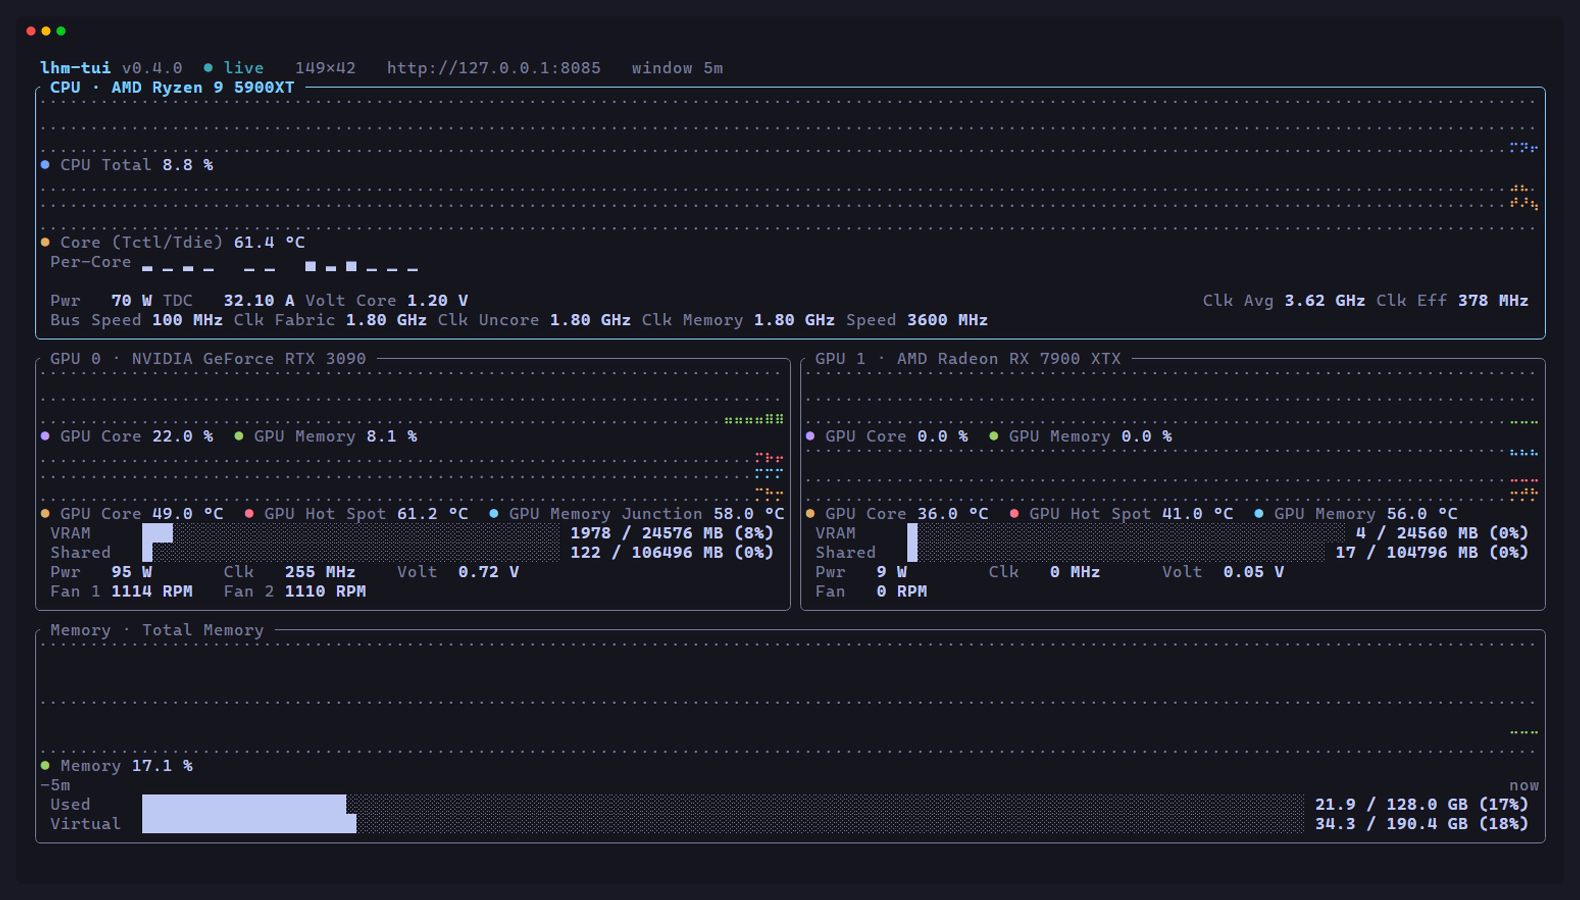
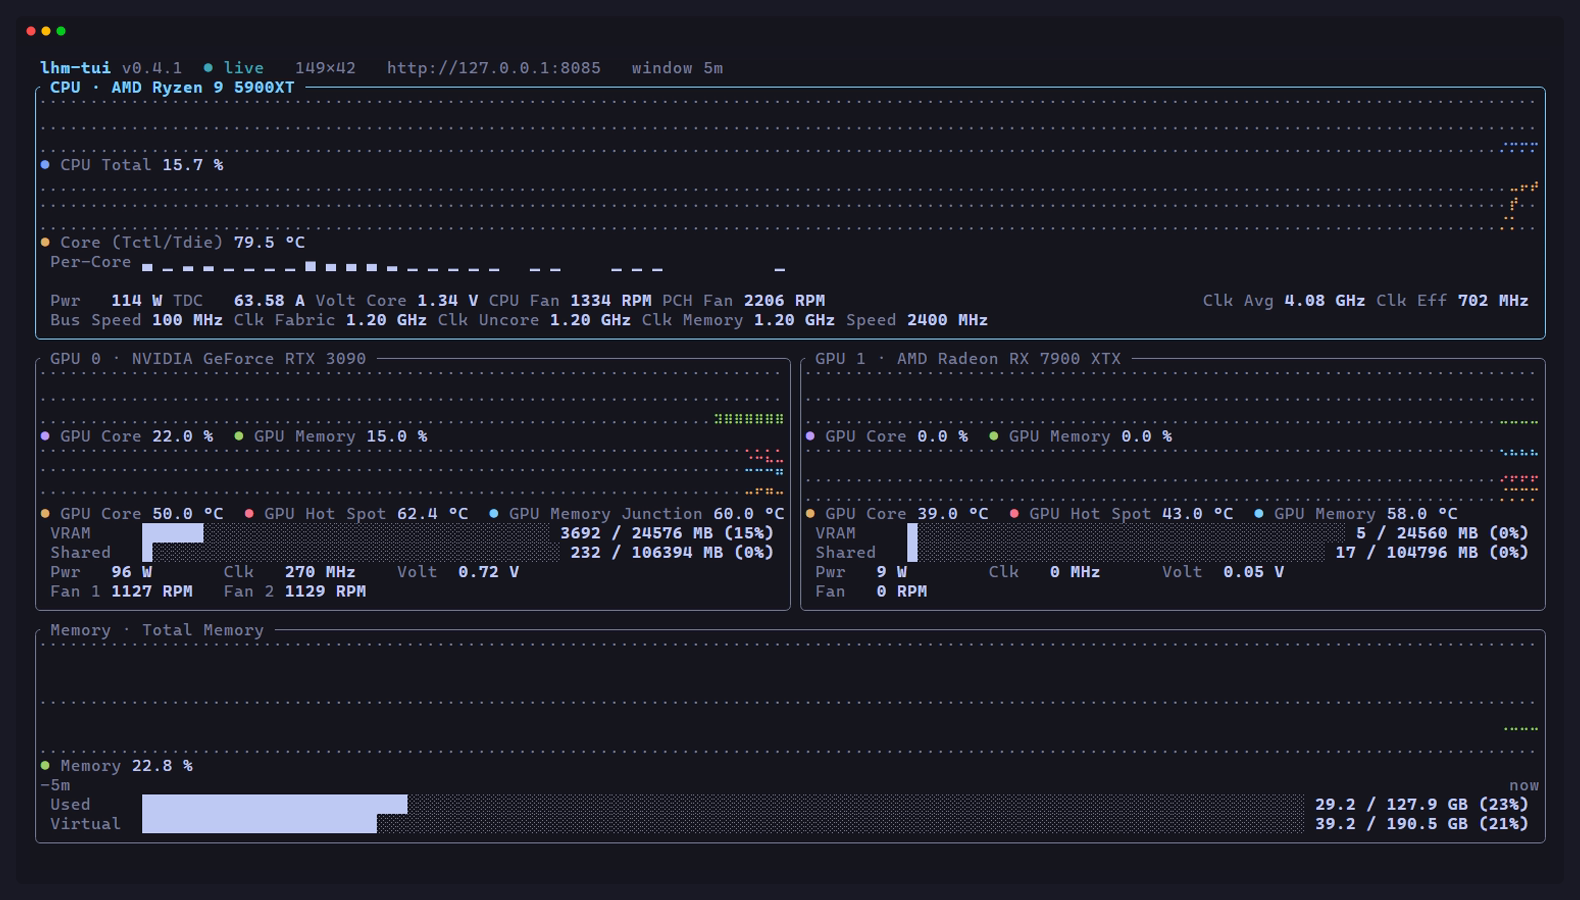
feat: CPU/PCH fan readouts (v0.4.1)

diff --git a/src/bindings.rs b/src/bindings.rs
@@ -41,6 +41,10 @@ pub struct CpuBindings {
     pub voltage: Option<Slot>,
     /// Package current (`TDC`, `Core TDC`, …).
     pub current: Option<Slot>,
+    /// SuperIO/LPC chassis fan (`CPU Fan`) shown on the CPU strip.
+    pub fan_cpu: Option<Slot>,
+    /// SuperIO/LPC chipset fan (`PCH Fan`) shown on the CPU strip.
+    pub fan_pch: Option<Slot>,
 }
 
 #[derive(Debug, Clone, PartialEq, Eq)]
@@ -330,6 +334,24 @@ fn cpu_bindings(
                 .find(|sensor| sensor.kind == SensorKind::Current)
         })
     });
+    let fan_cpu = find_slot_anywhere(
+        snapshot,
+        overrides,
+        "cpu.fan_cpu",
+        &[
+            "CPU Fan",
+            "CPU Fan 1",
+            "CPU_FAN",
+            "CPU FAN",
+            "CPU Fan Speed",
+        ],
+    );
+    let fan_pch = find_slot_anywhere(
+        snapshot,
+        overrides,
+        "cpu.fan_pch",
+        &["PCH Fan", "PCH_FAN", "Chipset Fan", "PCH Fan Speed"],
+    );
 
     let core_loads = if let Some(rule) = overrides.get("cpu.core_loads") {
         resolve_override(snapshot, rule)
@@ -369,6 +391,8 @@ fn cpu_bindings(
         power,
         voltage,
         current,
+        fan_cpu,
+        fan_pch,
     }
 }
 
@@ -724,6 +748,34 @@ where
         return resolve_override(snapshot, rule).map(|(hw, sensor)| slot_of(hw, sensor));
     }
     default().map(|sensor| slot_of(hardware, sensor))
+}
+
+/// Fan sensor anywhere in the tree (SuperIO/LPC hardware is not the CPU node).
+fn find_fan_anywhere(snapshot: &Snapshot, names: &[&str]) -> Option<Slot> {
+    for name in names {
+        for hardware in snapshot.all_hardware() {
+            if let Some(sensor) = hardware
+                .sensors()
+                .find(|sensor| sensor.kind == SensorKind::Fan && sensor.name == *name)
+            {
+                return Some(slot_of(hardware, sensor));
+            }
+        }
+    }
+    None
+}
+
+/// Slot override or a named fan from any hardware node (CPU/PCH fans).
+fn find_slot_anywhere(
+    snapshot: &Snapshot,
+    overrides: &BTreeMap<String, SensorOverride>,
+    key: &str,
+    names: &[&str],
+) -> Option<Slot> {
+    if let Some(rule) = overrides.get(key) {
+        return resolve_override(snapshot, rule).map(|(hw, sensor)| slot_of(hw, sensor));
+    }
+    find_fan_anywhere(snapshot, names)
 }
 
 fn resolve_override<'a>(

diff --git a/tests/interaction.rs b/tests/interaction.rs
@@ -57,7 +57,7 @@ fn pause_key_toggles_pause_and_shared_flag() {
 #[test]
 fn tab_cycles_focus_over_panel_list() {
     let (mut app, cfg) = live_app();
-    // Default layout with thermal hidden: cpu:0, gpu:0, gpu:1, memory → 4 panels.
+    // Default layout with thermal/fans hidden: cpu:0, gpu:0, gpu:1, memory.
     assert_eq!(app.focus, 0);
 
     handle_event(&mut app, key(KeyCode::Tab), &cfg);
@@ -84,7 +84,7 @@ fn tab_cycles_focus_over_panel_list() {
 fn scroll_applies_to_focused_scrollable_panel_only() {
     let (mut app, cfg) = live_app();
     // Reveal the temperatures table with the `t` override, then focus it
-    // (cpu:0, gpu:0, gpu:1, memory, thermal → index 4).
+    // (cpu:0, gpu:0, gpu:1, memory, thermal -> index 4).
     app.thermal_override = Some(true);
     app.focus = 4;
     handle_event(&mut app, key(KeyCode::Char('j')), &cfg);
@@ -244,12 +244,14 @@ fn fans_panel_toggle_and_control_keys() {
         .as_ref()
         .is_some_and(|status| status.text.contains("fans:")));
 
-    // Default panels: cpu:0, gpu:0, gpu:1, memory, fans → focus index 4.
+    // Default panels: cpu:0, gpu:0, gpu:1, memory, fans -> index 4.
     app.focus = 4;
-    // Default sort is RPM descending: AMD (534) is first, then the two
-    // NVIDIA fans (0 RPM). Down must move to the next *visible* row.
-    handle_event(&mut app, key(KeyCode::Down), &cfg);
-    assert_eq!(app.fan_selected, 1, "down moves the fan-control cursor");
+    // Default sort is RPM descending: PCH (2258), CPU (1331), AMD (534), then
+    // the two NVIDIA fans (0 RPM). Walk to the first NVIDIA row.
+    for _ in 0..3 {
+        handle_event(&mut app, key(KeyCode::Down), &cfg);
+    }
+    assert_eq!(app.fan_selected, 3, "down moves one visible row at a time");
 
     // The live fixture's NVIDIA Fan 1 sits at 0 %, so +5 % writes 5 %.
     handle_event(&mut app, key(KeyCode::Right), &cfg);

diff --git a/src/config.rs b/src/config.rs
@@ -376,6 +376,7 @@ impl Default for CpuPanel {
                 "power",
                 "voltage",
                 "current",
+                "fan",
             ]
             .map(String::from)
             .to_vec(),
@@ -962,6 +963,7 @@ pub fn validate(config: &Config) -> Vec<String> {
         "power",
         "voltage",
         "current",
+        "fan",
     ];
     const GPU_SLOTS: &[&str] = &["load", "memory", "temp", "power", "voltage", "fan", "clock"];
     const MEMORY_SLOTS: &[&str] = &["used", "load", "virtual"];
@@ -1180,6 +1182,8 @@ const CPU_OVERRIDE_SLOTS: &[&str] = &[
     "power",
     "voltage",
     "current",
+    "fan_cpu",
+    "fan_pch",
     "core_loads",
 ];
 const GPU_OVERRIDE_SLOTS: &[&str] = &[
@@ -1336,7 +1340,8 @@ mod tests {
                 "clock",
                 "power",
                 "voltage",
-                "current"
+                "current",
+                "fan"
             ]
         );
         assert!(config.panels.gpu.enabled);

diff --git a/tests/bindings.rs b/tests/bindings.rs
@@ -170,8 +170,20 @@ fn live_fixture_dual_gpu_machine() {
     // Thermal: 6 CPU + 3 + 3 GPU sensors; DIMM timings don't leak in.
     assert_eq!(bindings.thermal.len(), 12);
 
-    // Fans: both NVIDIA fans paired with their controls; AMD fan too.
-    assert_eq!(bindings.fans.len(), 3);
+    // CPU/PCH fans come from the SuperIO/LPC hardware, not the CPU node.
+    assert_eq!(
+        slot_id(&cpu.fan_cpu),
+        Some("/lpc/it8688e/0/fan/0"),
+        "CPU Fan binds from the LPC hardware"
+    );
+    assert_eq!(
+        slot_id(&cpu.fan_pch),
+        Some("/lpc/it8688e/0/fan/3"),
+        "PCH Fan binds from the LPC hardware"
+    );
+
+    // Fans: both NVIDIA fans paired with their controls; AMD and LPC fans too.
+    assert_eq!(bindings.fans.len(), 5);
     assert!(bindings.fans.iter().all(|row| row.control.is_some()));
 
     // Power: many sensors, CPU package and GPU packages included.

diff --git a/src/ui/presets.rs b/src/ui/presets.rs
@@ -454,6 +454,18 @@ fn cpu_strip(cpu: &CpuBindings, snapshot: &Snapshot, cfg: &Config) -> CpuStrip {
             slot_display(snapshot, &cpu.voltage),
         ));
     }
+    if show("fan") {
+        if cpu.fan_cpu.is_some() {
+            strip
+                .first_left
+                .push(("CPU Fan".to_string(), slot_display(snapshot, &cpu.fan_cpu)));
+        }
+        if cpu.fan_pch.is_some() {
+            strip
+                .first_left
+                .push(("PCH Fan".to_string(), slot_display(snapshot, &cpu.fan_pch)));
+        }
+    }
     if show("clock") {
         if cpu.clock.is_some() {
             strip

diff --git a/SPEC.md b/SPEC.md
@@ -355,8 +355,8 @@ Heuristics are documented, deterministic, and overridable per panel in config (F
 candidate lists; first match wins. `(name)` match is case-insensitive exact, then regex fallback.
 
 **CPU panel** — hardware candidates: `HardwareKind::Cpu` (first; extra CPUs get their own panel;
-common case is 1). The bottom **metrics strip** renders these in exactly this order, wrapping onto
-as many rows as the panel width needs (missing slots are skipped; see §6.3):
+common case is 1). The bottom **metrics strip** uses the fixed two-row template (see §6.3;
+missing slots are skipped):
 
 | Slot              | SensorType    | Candidate names (in order)                                   |
 | ----------------- | ------------- | ------------------------------------------------------------ |
@@ -372,6 +372,8 @@ as many rows as the panel width needs (missing slots are skipped; see §6.3):
 | `clock_memory`    | Clock         | `Memory` (package memory clock)                               |
 | `voltage`         | Voltage       | `Core (SVI2 TFN)`, `CPU Core`, `Core Voltage`; core voltage — never a per-core VID |
 | `current`         | Current       | `TDC`, `Core TDC`, first `Current`                            |
+| `fan_cpu`         | Fan           | `CPU Fan`, `CPU Fan 1`, `CPU_FAN`, `CPU FAN`, `CPU Fan Speed` (searched across LPC/SuperIO hardware) |
+| `fan_pch`         | Fan           | `PCH Fan`, `PCH_FAN`, `Chipset Fan`, `PCH Fan Speed` (searched across LPC/SuperIO hardware) |
 
 **GPU panel** — one panel per hardware whose kind is `Gpu*`; panel title `GPU {n} · {name}` using
 hardware order in the tree (stable within a session). Slots:
@@ -496,7 +498,7 @@ Responsive rules:
 
 | Key           | Contents                                                                        |
 | ------------- | ------------------------------------------------------------------------------- |
-| `cpu`         | temp graph + total-load graph (dual series), `Per-Core`-labelled bars (one column between cores), and a fixed two-row metrics strip — row 1 `Pwr · TDC · Volt Core` with `Clk Avg · Clk Eff` right-aligned, row 2 `Bus Speed · Clk Fabric · Clk Uncore · Clk Memory · Speed` (`Speed` = 2 × memory clock, in MHz: `Clk Memory 1.80 GHz · Speed 3600 MHz`; disabled or missing slots are skipped) |
+| `cpu`         | temp graph + total-load graph (dual series), `Per-Core`-labelled bars (one column between cores), and a fixed two-row metrics strip — row 1 `Pwr · TDC · Volt Core · CPU Fan · PCH Fan` with `Clk Avg · Clk Eff` right-aligned, row 2 `Bus Speed · Clk Fabric · Clk Uncore · Clk Memory · Speed` (`Speed` = 2 × memory clock, in MHz: `Clk Memory 1.80 GHz · Speed 3600 MHz`; disabled or missing slots are skipped) |
 | `gpu`         | one panel per GPU; load graph + VRAM gauge (`599 / 24576 MB (2%)`) + a `Shared` gauge under it (same `used / total (pct %)` template; when the card reports no total, system RAM total minus this card's VRAM is used) + temp graph (core / hot spot / memory junction) + a metrics row `Pwr · Clk · Volt` and a dedicated fan row (`Fan 1`, `Fan 2`, …) underneath |
 | `memory`      | used-memory gauge, virtual-memory gauge (`42.7 / 140.9 GB (30%)`) and the used-load graph; both gauges show `used / total (pct %)` |
 | `thermal`     | all temperature sensors grouped per hardware device, sorted within each group (hidden by default; `t` or list it in `ui.layout`) |
@@ -774,7 +776,7 @@ with a `serde_path_to_error` path (e.g. `charts.window: invalid duration "5x"`).
   },
 
   "panels": {
-    "cpu":  { "enabled": true, "show": ["temp", "load", "core_loads", "clock", "power", "voltage", "current"] },
+    "cpu":  { "enabled": true, "show": ["temp", "load", "core_loads", "clock", "power", "voltage", "current", "fan"] },
     "gpu":  { "enabled": true, "include": ["GpuNvidia", "GpuAmd", "GpuIntel"], "per_row": 2,
               "show": ["load", "memory", "temp", "power", "voltage", "fan", "clock"] },
     "memory": { "enabled": true, "show": ["used", "load", "virtual"] },
@@ -844,7 +846,7 @@ with a `serde_path_to_error` path (e.g. `charts.window: invalid duration "5x"`).
 | `charts.marker`                   | enum            | `braille`        | Fallback automatically if glyph unsupported  |
 | `charts.window(_cycle)`           | duration/string | `"5m"`/`[1m,5m,15m]` | Window > `history.window_s` clamps       |
 | `theme.*`                         | color/float     | see example      | Names or `#RRGGBB`; downgraded for 256/16 colors |
-| `panels.*.show` / `enabled`       | per preset      | all/true         | Honored by CPU/GPU/memory panels; invalid slots are errors. CPU slots: `temp`, `load`, `core_loads`, `clock`, `power`, `voltage`, `current`; GPU slots: `load`, `memory`, `temp`, `power`, `voltage`, `fan`, `clock` |
+| `panels.*.show` / `enabled`       | per preset      | all/true         | Honored by CPU/GPU/memory panels; invalid slots are errors. CPU slots: `temp`, `load`, `core_loads`, `clock`, `power`, `voltage`, `current`, `fan`; GPU slots: `load`, `memory`, `temp`, `power`, `voltage`, `fan`, `clock` |
 | `panels.voltage`                  | toggle          | `true`           | Voltages table; hidden until `v` or added to `ui.layout` |
 | `panels.fans`                     | toggle          | `true`           | Fans & controls table; hidden until `f` or added to `ui.layout` |
 | `panels.sensor_overrides`         | map             | `{}`             | Key = `panel.slot` (e.g. `cpu.temp`, `gpu.2.load`) |
@@ -1235,7 +1237,7 @@ both covered in fixtures):
       "type": "object",
       "additionalProperties": false,
       "properties": {
-        "enabled": { "type": "boolean", "default": true },
+        "enabled": { "type": "boolean", "default": false },
         "only_auto_stop": { "type": "boolean", "default": true },
         "floor_percent": { "type": "number", "minimum": 5, "maximum": 100, "default": 45 },
         "idle_load_percent": { "type": "number", "minimum": 0, "maximum": 100, "default": 10 },

diff --git a/README.md b/README.md
@@ -17,9 +17,10 @@
 live, color-thresholded panels in your terminal:
 
 - **CPU** — temperature & total load gauges, `Per-Core`-labelled utilization bars, and a fixed
-  two-row metrics strip (`Pwr · TDC · Volt Core` with `Clk Avg · Clk Eff` right-aligned; `Bus Speed ·
-  Clk Fabric · Clk Uncore · Clk Memory · Speed`, where `Speed` is the DDR transfer rate in MHz,
-  twice the memory clock: `Speed 3600 MHz`) (`c` or `--charts` adds live graphs)
+  two-row metrics strip (`Pwr · TDC · Volt Core · CPU Fan · PCH Fan` with `Clk Avg · Clk Eff`
+  right-aligned; `Bus Speed · Clk Fabric · Clk Uncore · Clk Memory · Speed`, where `Speed` is the
+  DDR transfer rate in MHz, twice the memory clock: `Speed 3600 MHz`) (`c` or `--charts` adds live
+  graphs)
 - **GPU** — one panel per GPU (NVIDIA/AMD/Intel, multi-GPU supported): core load, **VRAM usage**
   (`599 / 24576 MB (2%)`) with **shared GPU memory** (`Shared`) right below it (estimated from RAM
   minus VRAM when the card reports no total), hotspot temperature, power draw, clock & voltage, and
@@ -45,9 +46,9 @@ live, color-thresholded panels in your terminal:
 It's a single static binary, needs **no admin rights**, and can monitor `localhost` — or any
 Windows machine on your network / over SSH — through a small JSON config file.
 
-> **Project status:** v0.4.0 — fan and pump control from the Fans & Controls panel, grouped
-> temperature/voltage tables, mouse navigation and a CPU memory-speed readout. The full design —
-> architecture, config schema, chart engine, milestones — lives in [SPEC.md](SPEC.md).
+> **Project status:** v0.4.1 — CPU/PCH fan readouts on the CPU strip, an NVIDIA-only opt-in fan
+> guard, grouped temperature/voltage tables, mouse navigation and a CPU memory-speed readout. The
+> full design — architecture, config schema, chart engine, milestones — lives in [SPEC.md](SPEC.md).
 
 ## Demo
 
@@ -258,7 +259,8 @@ Debug logging: `lhm-tui --log lhm-tui.log -v -v` (never writes into the TUI itse
   memory readouts, better voltage names
 - **v0.4.0** — fan/pump control from the Fans panel (flat, device in parentheses, speed + setting,
   Auto/Default), grouped temperature/voltage tables, mouse navigation and a CPU `Speed` readout
-  *(current)*
+- **v0.4.1** — CPU/PCH fan readouts on the CPU strip, NVIDIA-only opt-in fan guard, schema and
+  Windows config-path documentation fixes *(current)*
 - **v0.4.x** — winget + scoop manifests, crates.io publish
 - **v0.5.0** — CSV/JSONL recording, threshold alerts, chart history backfill via LHM's `/metrics`
 - **v0.6.0** — multi-host tabs, user theme files

diff --git a/docs/release-notes-v0.4.1.md b/docs/release-notes-v0.4.1.md
@@ -1,0 +1,54 @@
+# lhm-tui v0.4.1 - release notes (hand-written body)
+
+<!--
+Release body source for the `v0.4.1` GitHub Release (the workflow creates the
+release with the CHANGELOG section; `gh release edit --notes-file` sets this
+text). Keep the "known issues" list honest.
+-->
+
+**CPU and PCH fan readouts plus a safer fan guard.** v0.4.1 adds the SuperIO/LPC
+fan speeds to the CPU metrics strip and makes the anti-stop floor opt-in and
+NVIDIA-only, so a default install never writes to a GPU fan controller.
+
+## Highlights
+
+- **CPU Fan / PCH Fan** - the CPU strip row 1 now shows `CPU Fan` and `PCH Fan`
+  after `Volt Core`. Both bind from LPC/SuperIO hardware because they are not
+  attached to the CPU node; missing fans are skipped. New override slots
+  `cpu.fan_cpu` / `cpu.fan_pch` and a `fan` slot in `panels.cpu.show`.
+- **Fan guard is opt-in** - `fan_guard.enabled` defaults to `false`. Enable it
+  with `n` or `"fan_guard": { "enabled": true }` when an NVIDIA zero-RPM curve
+  parks the fans while idle.
+- **NVIDIA-only guard** - AMD/Intel fan controls are never written to, even when
+  the guard is enabled, so swapping cards or PCIe slots cannot arm the floor on
+  an AMD card.
+- **Docs/schema fixes** - the JSON Schema now reflects the actual
+  `fan_guard.enabled` default, and the Windows config directory is documented as
+  `%APPDATA%\lhm-tui\config\`.
+
+## Install
+
+Use the same install channels as v0.4.0:
+
+- GitHub Releases archives and installers (Windows x64/arm64, Linux x64/arm64,
+  macOS Intel/Apple silicon)
+- `cargo install --git https://github.com/baroseiro/lhm-tui`
+
+Existing configs keep working; no migration is required. If you previously
+relied on the floor being armed by default, set `"fan_guard": { "enabled": true }`
+or press `n`.
+
+## Known issues
+
+- The guard is NVIDIA-only by design; AMD/Intel cards are never touched.
+- Windows on ARM and Linux ARM builds have no separate release archive beyond
+  the existing v0.4.0 matrix.
+- Recording/alerting remains planned for v0.5.
+
+## Verification
+
+- `cargo fmt --check`, `cargo clippy --all-targets -- -D warnings`,
+  `cargo test`, `cargo +1.89 check --all-targets`, release build.
+- Live probe against the reference LHM machine; captures regenerated with the
+  CPU/PCH fan readouts visible.
+- All six release archives are built and smoke-tested by the release workflow.

diff --git a/PLAN.md b/PLAN.md
@@ -469,6 +469,12 @@ winget/scoop/crates.io explicitly deferred to v0.1.x.
 **Done when:** Default config leaves fans alone; enabling floors only NVIDIA auto-stop cards; a non-NVIDIA view returns `Hold`/`Release`; example config and captures updated.
 **Shipped:** vendor gate and opt-in default, NVIDIA-only skip note, updated toggle messages, example config and docs.
 
+#### T8.9 — CPU/PCH fan readouts
+**Goal:** Bind `CPU Fan` and `PCH Fan` from SuperIO/LPC hardware and show them in CPU strip row 1 after `Volt Core`; add `fan` to `panels.cpu.show` and `cpu.fan_cpu` / `cpu.fan_pch` override slots.
+**Files:** `src/bindings.rs` (cross-hardware fan lookup), `src/ui/presets.rs`, `src/config.rs`, `schema/lhm-tui.schema.json`, `lhm-tui.example.json`, tests/snapshots, SPEC §5.2/§6.3/§8.2/§8.3, README, CHANGELOG.
+**Done when:** Both fans bind from the LPC node on the live fixture and are visible at 160/120 columns; missing fans are skipped; example config validates.
+**Shipped:** cross-hardware named fan lookup + override slots, `fan` show slot, live fixture LPC fan node, CPU strip readouts and snapshots.
+
 ---
 
 ## 4. Critical path & parallelization

diff --git a/CHANGELOG.md b/CHANGELOG.md
@@ -5,12 +5,19 @@ All notable changes to this project will be documented in this file.
 The format is based on [Keep a Changelog](https://keepachangelog.com/en/1.1.0/),
 and this project adheres to [Semantic Versioning](https://semver.org/spec/v2.0.0.html).
 
-## [Unreleased]
+## [0.4.1] - 2026-11-09
+
+### Added
+
+- **CPU fan readouts**: the CPU strip row 1 now shows `CPU Fan` and `PCH Fan` after `Volt Core`.
+  Both bind from LPC/SuperIO hardware even though they are not attached to the CPU node; new
+  `cpu.fan_cpu` / `cpu.fan_pch` override slots and a `fan` slot in `panels.cpu.show`.
 
 ### Changed
 
 - **Fan anti-stop guard is opt-in**: `fan_guard.enabled` now defaults to `false`, so each GPU
   manages its own fans out of the box. Enable it with `n` or `"fan_guard": { "enabled": true }`.
+- The JSON Schema now reflects the actual `fan_guard.enabled` default (`false`).
 
 ### Fixed
 

diff --git a/docs/qa-matrix.md b/docs/qa-matrix.md
@@ -24,8 +24,8 @@ failures and list deferrals in the release notes.
 ## Checklist per row
 
 1. `lhm-tui --probe` prints version, counts and no errors.
-2. `lhm-tui` renders CPU, GPUs, memory; values match the LHM web UI within
-   one poll interval.
+2. `lhm-tui` renders CPU, GPUs, memory; the CPU strip shows `CPU Fan`/`PCH Fan` after
+   `Volt Core`; values match the LHM web UI within one poll interval.
 3. Press `c` (or run with `--charts`): charts fill over ~5 minutes; `g` cycles the window; `c`
    switches back to gauges.
 4. `t` shows/hides the grouped temperatures table; rows sit under a device heading; `s` sorts
